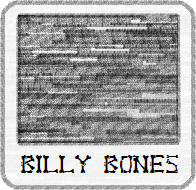
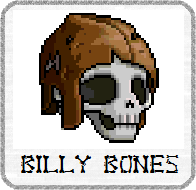
Bone e Meat no HUD / Avatares no CharSelect
....

diff --git a/src/CharBilly.java b/src/CharBilly.java
@@ -1,4 +1,5 @@
 import java.awt.Color;
+import java.awt.Graphics;
 import java.awt.Graphics2D;
 import java.awt.Rectangle;
 import java.awt.image.BufferedImage;
@@ -14,6 +15,7 @@ public class CharBilly extends Character {
 	boolean positionsMap = false;
 	float spawnX, spawnY;
 	int fireAnim;
+	public static BufferedImage hudProjBone = GamePanel.loadImage("sprites/hud_projBone.png");
 	
 	public CharBilly(float x, float y, BufferedImage charset, int charsetX, int charsetY) {
 		super(x, y, charset, charsetX, charsetY, 60, 60, 4);
@@ -171,7 +173,10 @@ public class CharBilly extends Character {
 	public void selfDraws(Graphics2D dbg, int mapX, int mapY) {
 		if(isAlive) {
 			super.selfDraws(dbg, mapX, mapY);
-			dbg.drawString("Bones: "+numShotsBone, 10, 40);
+			for(int i = 0; i < numShotsBone; i++) {
+				int x = i * 12;
+				dbg.drawImage(hudProjBone, (int)(x), (int)(25), (int)(x+16), (int)(25+40), 0, 0, hudProjBone.getWidth(), hudProjBone.getHeight(), null);
+			}
 		}
 	}
 	

diff --git a/src/CharZombie.java b/src/CharZombie.java
@@ -13,6 +13,7 @@ public class CharZombie extends Character {
 	float spawnX, spawnY;
 	int fireAnim;
 	int deathCounter = 0;
+	public static BufferedImage hudProjMeat = GamePanel.loadImage("sprites/hud_projMeat.png");
 	
 	public CharZombie(float x, float y, BufferedImage charset, int charsetX, int charsetY) {
 		super(x, y, charset, charsetX, charsetY, 60, 60, 4);
@@ -150,7 +151,10 @@ public class CharZombie extends Character {
 	public void selfDraws(Graphics2D dbg, int mapX, int mapY) {
 		if(isAlive) {
 			super.selfDraws(dbg, mapX, mapY);
-			dbg.drawString("Meats: "+numShotsMeat, 10, 50);
+			for(int i = 0; i < numShotsMeat; i++) {
+				int x = 100 + (i * 13);
+				dbg.drawImage(hudProjMeat, (int)(x), (int)(25), (int)(x+19), (int)(25+40), 0, 0, hudProjMeat.getWidth(), hudProjMeat.getHeight(), null);
+			}
 		}
 
 	}
